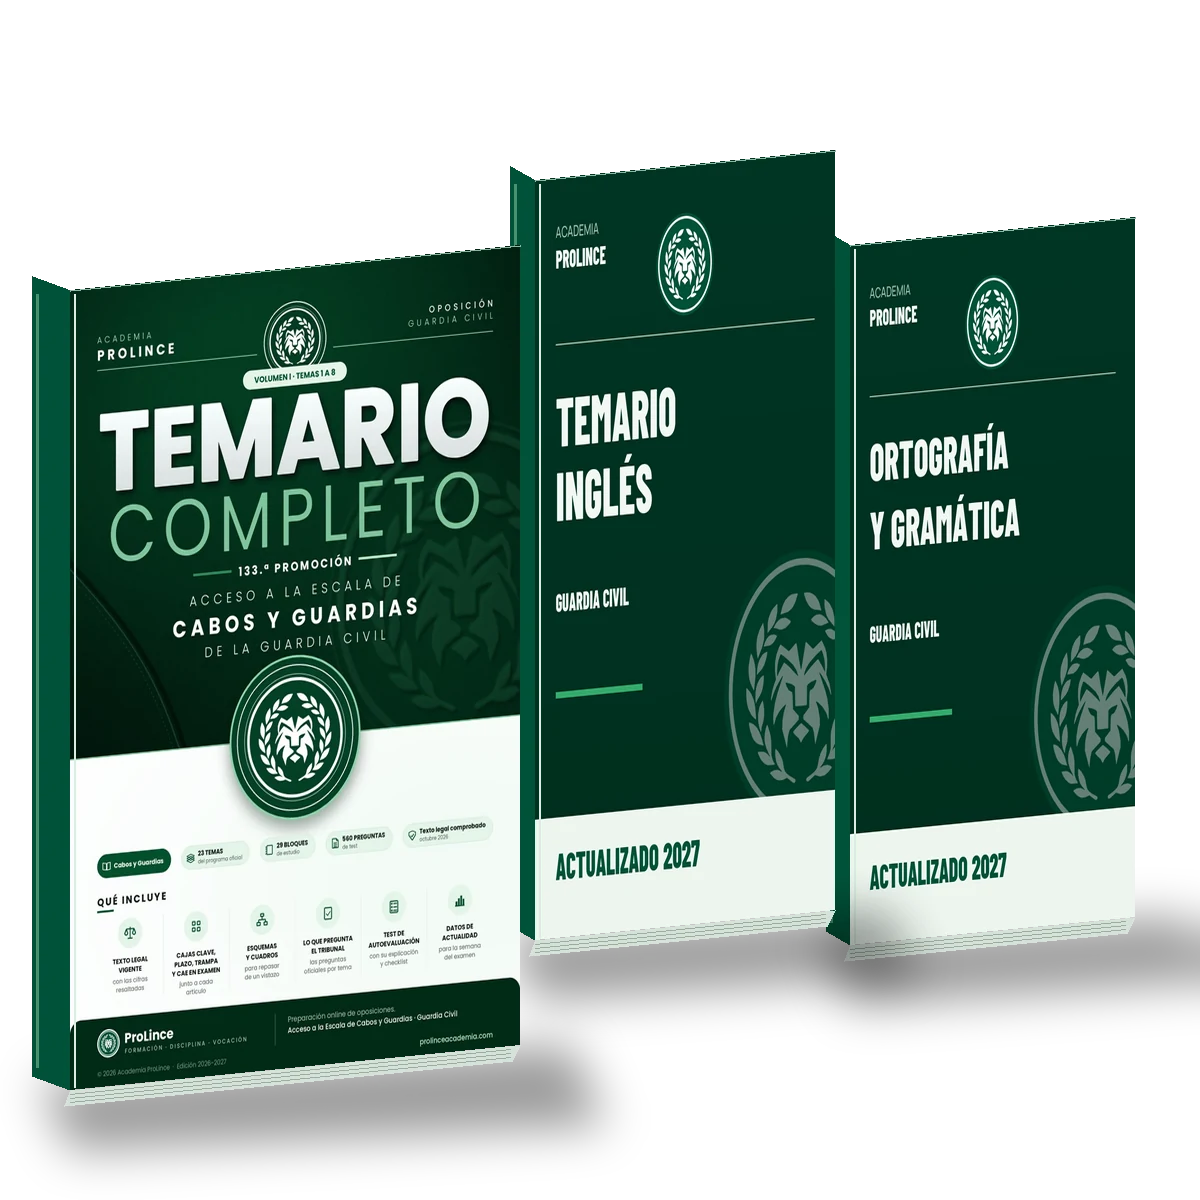
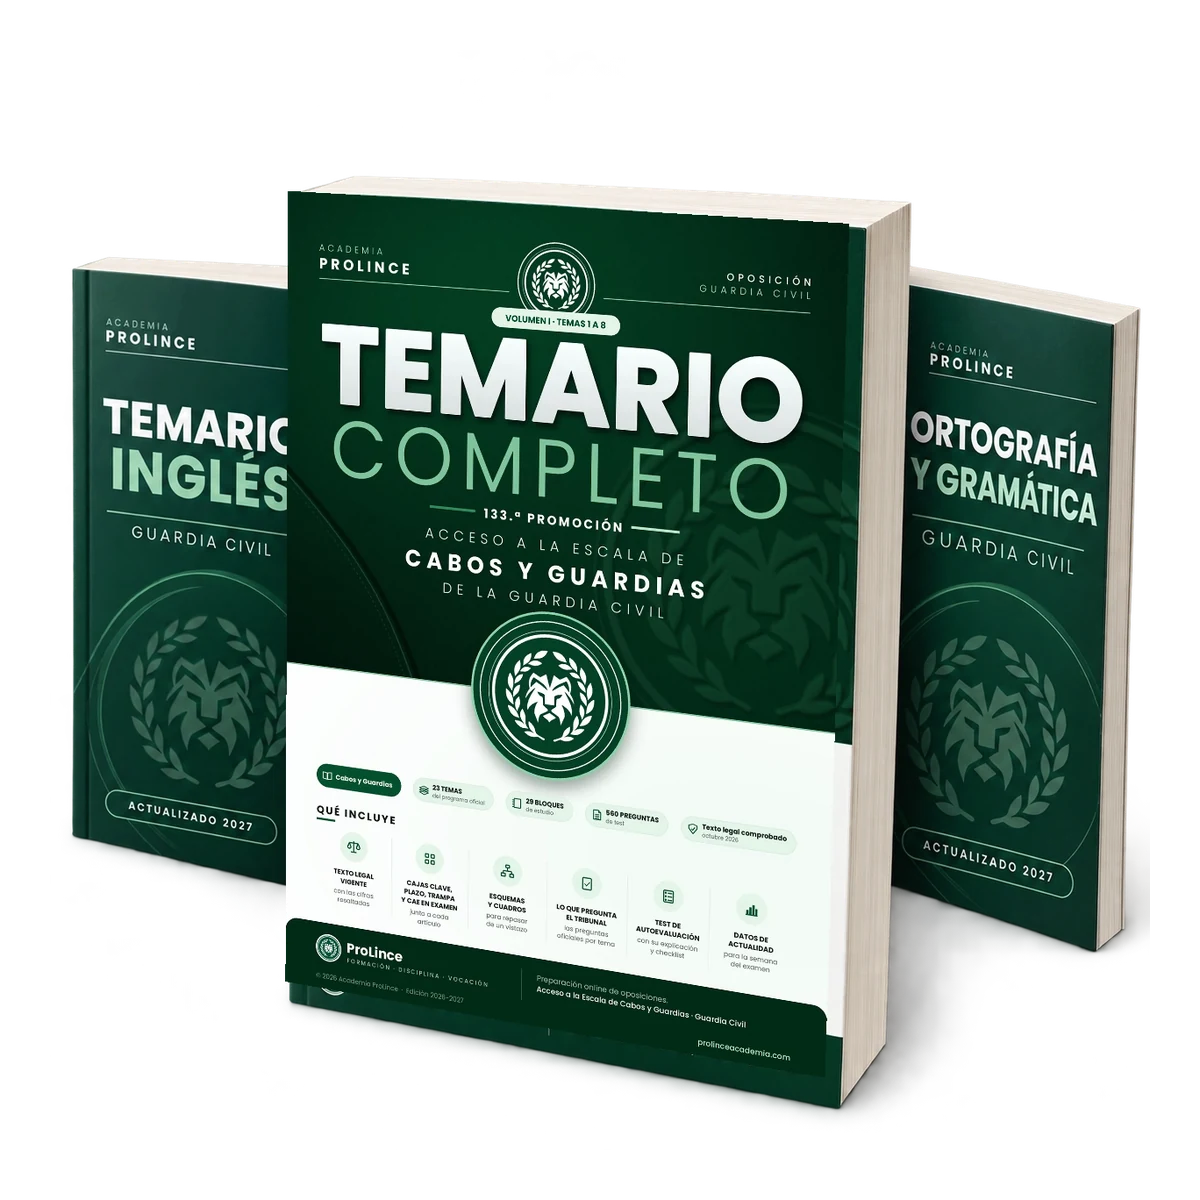
Rehace los cuatro mockups de temarios con libros realistas y sombras suaves

diff --git a/scripts/generar-miniaturas.py b/scripts/generar-miniaturas.py
@@ -1,9 +1,9 @@
-"""Genera las 10 miniaturas con Pillow y Sharp (logos SVG), sin alterar las portadas reales.
+"""Genera las miniaturas de packs y prepara los temarios desde sus fuentes fotográficas.
 
 Uso: python3 scripts/generar-miniaturas.py
 Requiere Pillow; descarga Barlow Condensed 800 y Manrope 500 de Google Fonts en la
-carpeta temporal. Las portadas de inglés, ortografía y resumen son PROVISIONALES:
-sustituirlas por las definitivas cuando estén disponibles.
+carpeta temporal. Los temarios se preparan con generar-temarios-realistas.py;
+sus fuentes de imagen se conservan en scripts/recursos/temarios.
 """
 from pathlib import Path
 from tempfile import gettempdir
@@ -42,50 +42,6 @@ def shadow(im, polygon, blur=25, opacity=100):
     layer = Image.new('RGBA', im.size)
     ImageDraw.Draw(layer).polygon(polygon, fill=(0, 0, 0, opacity))
     im.alpha_composite(layer.filter(ImageFilter.GaussianBlur(blur)))
-
-
-def cover(course, kind):
-    # PROVISIONAL: no hay portadas oficiales de inglés, ortografía ni resumen.
-    im = Image.new('RGBA', (840, 1188), '#003B29')
-    d = ImageDraw.Draw(im)
-    for y in range(1188):
-        d.line((0, y, 840, y), fill=(0, int(65 - y / 75), int(43 - y / 100)))
-    paste(im, SEAL, (530, 620), (430, 430))
-    # Velo sobre el sello de fondo para mantener los títulos legibles.
-    veil = Image.new('RGBA', im.size, (0, 45, 30, 155))
-    im.alpha_composite(veil)
-    paste(im, SEAL, (340, 75), (160, 160))
-    text(im, (58, 68), 'ACADEMIA', 24, MUTED, 'manrope')
-    text(im, (58, 102), 'PROLINCE', 40)
-    d = ImageDraw.Draw(im)
-    d.line((58, 260, 782, 260), fill=MUTED, width=2)
-    titles = {'ingles': ['TEMARIO', 'INGLÉS'], 'ortografia': ['ORTOGRAFÍA', 'Y GRAMÁTICA'], 'resumen': ['TEMARIO', 'RESUMEN']}[kind]
-    for i, title in enumerate(titles):
-        text(im, (58, 315 + i * 116), title, 106 if kind != 'ortografia' else 90)
-    text(im, (58, 640), 'GUARDIA CIVIL' if course == 'gc' else 'COLEGIO DE', 39)
-    if course != 'gc':
-        text(im, (58, 688), 'GUARDIAS JÓVENES', 48)
-    d.rectangle((58, 804, 300, 813), fill=GREEN)
-    d.rectangle((0, 1000, 840, 1188), fill='#EDF6EF')
-    text(im, (58, 1040), 'ACTUALIZADO 2027', 58, '#005238')
-    return im
-
-
-def book(im, front, x, y, w, h, spine=30):
-    rise = int(w * .10)
-    shadow(im, [(x-30, y+h-10), (x+w+50, y+h-rise), (x+w+85, y+h+35), (x, y+h+60)], 22, 100)
-    d = ImageDraw.Draw(im)
-    d.polygon([(x-spine,y-14), (x,y), (x,y+h), (x-spine,y+h-14)], fill='#005238')
-    d.line((x-spine+5,y+4,x-spine+5,y+h-23), fill='#4A8F6D',width=3)
-    d.polygon([(x,y+h), (x+w,y+h-rise), (x+w-8,y+h-rise+16), (x-6,y+h+16)], fill='#D5E2D9')
-    for offset in (4,8,12):
-        d.line((x,y+h+offset,x+w-10,y+h-rise+offset),fill='#9CAD9E',width=1)
-    scaled = front.resize((w,h), Image.Resampling.LANCZOS)
-    layer = scaled.transform(im.size, Image.Transform.AFFINE, (1,0,-x,rise/w,1,-y-rise*x/w), Image.Resampling.BICUBIC)
-    im.alpha_composite(layer)
-    d = ImageDraw.Draw(im)
-    d.line((x,y,x+w,y-rise), fill='#91B69D',width=2)
-    d.line((x+4,y+4,x+4,y+h-3), fill=(160,210,180,100),width=2)
 
 
 def phone():
@@ -178,18 +134,7 @@ for course in ('gc','cgj'):
         path=ROOT/f'public/packs/{course}-{suffix}.webp'
         path.parent.mkdir(parents=True,exist_ok=True)
         pack(course,kind).save(path,'WEBP',quality=88,method=6)
-    original=Image.open(ROOT/f"public/temarios/{'guardia-civil' if course=='gc' else 'guardias-jovenes'}/001.webp").convert('RGBA')
-    for kind in ('completo','resumen'):
-        im=Image.new('RGBA',(1200,1200))
-        if kind=='completo':
-            book(im,cover(course,'ortografia'),850,245,285,700,24)
-            book(im,cover(course,'ingles'),535,180,300,760,25)
-            book(im,original,70,290,450,800,38)
-        else:
-            book(im,cover(course,'resumen'),300,180,615,888,19)
-        path=ROOT/f'public/temarios/miniaturas/{course}-libro-{kind}.webp'
-        path.parent.mkdir(parents=True,exist_ok=True)
-        im.save(path,'WEBP',quality=88,method=6)
+subprocess.run(['python3', str(ROOT / 'scripts/generar-temarios-realistas.py')], check=True)
 for folder in ('packs','temarios/miniaturas'):
     for path in sorted((ROOT/'public'/folder).glob('*.webp')):
         print(f'{path.relative_to(ROOT)}: {path.stat().st_size / 1000:.1f} KB · {Image.open(path).size}')

diff --git a/scripts/generar-temarios-realistas.py b/scripts/generar-temarios-realistas.py
@@ -1,0 +1,59 @@
+"""Prepara las cuatro miniaturas fotográficas de temarios (Pillow, sin descargas).
+
+Las bases de imagen se conservan en recursos/temarios. Para los packs completos,
+la portada real se proyecta sobre la cara frontal del libro, sin redibujar textos
+ni logotipos. Las portadas de inglés, ortografía y resumen son PROVISIONALES.
+"""
+from pathlib import Path
+from PIL import Image
+
+ROOT = Path(__file__).resolve().parents[1]
+SOURCES = ROOT / 'scripts/recursos/temarios'
+OUTPUT = ROOT / 'public/temarios/miniaturas'
+# Vértices de la cara frontal: superior izquierdo, superior derecho,
+# inferior derecho, inferior izquierdo, en coordenadas normalizadas a 1280 × 1280.
+FRONTS = {
+    'gc': [(277, 164), (930, 202), (902, 1196), (274, 1084)],
+    'cgj': [(277, 164), (927, 207), (915, 1205), (277, 1114)],
+}
+
+
+def perspective(source_size, target):
+    """Resuelve la homografía inversa para aplicar la portada original con Pillow."""
+    width, height = source_size
+    source = [(0, 0), (width, 0), (width, height), (0, height)]
+    rows = []
+    for (x, y), (u, v) in zip(target, source):
+        rows.append([x, y, 1, 0, 0, 0, -u*x, -u*y, u])
+        rows.append([0, 0, 0, x, y, 1, -v*x, -v*y, v])
+    for column in range(8):
+        pivot = max(range(column, 8), key=lambda r: abs(rows[r][column]))
+        rows[column], rows[pivot] = rows[pivot], rows[column]
+        divisor = rows[column][column]
+        rows[column] = [value / divisor for value in rows[column]]
+        for r in range(8):
+            if r != column:
+                factor = rows[r][column]
+                rows[r] = [a-factor*b for a, b in zip(rows[r], rows[column])]
+    return tuple(row[-1] for row in rows)
+
+
+OUTPUT.mkdir(parents=True, exist_ok=True)
+for course, folder in [('gc', 'guardia-civil'), ('cgj', 'guardias-jovenes')]:
+    for kind in ('completo', 'resumen'):
+        name = f'{course}-libro-{kind}.webp'
+        image = Image.open(SOURCES / name).convert('RGBA')
+        if kind == 'completo':
+            original = Image.open(ROOT / f'public/temarios/{folder}/001.webp').convert('RGBA')
+            texture = original.transform(image.size, Image.Transform.PERSPECTIVE,
+                perspective(original.size, [(x * image.width / 1280, y * image.height / 1280)
+                    for x, y in FRONTS[course]]), Image.Resampling.BICUBIC)
+            image.alpha_composite(texture)
+        # Margen constante: ni libros ni sombras quedan pegados al borde de la tarjeta.
+        canvas = Image.new('RGBA', (1200, 1200))
+        canvas.alpha_composite(image.resize((1100, 1100), Image.Resampling.LANCZOS), (50, 50))
+        image = canvas
+        destination = OUTPUT / name
+        image.save(destination, 'WEBP', quality=88, method=6)
+        assert destination.stat().st_size < 250_000, f'Miniatura demasiado pesada: {name}'
+        print(f'{name}: {destination.stat().st_size / 1000:.1f} KB · 1200 × 1200')

diff --git a/scripts/recursos/temarios/README.md b/scripts/recursos/temarios/README.md
@@ -1,0 +1,41 @@
+# Fuentes de los mockups realistas de temarios
+
+Bases creadas con la herramienta integrada de generación de imágenes, siguiendo
+la preferencia de Marcos: «Libros realistas, con volumen y sombras suaves».
+Se conservan en WebP de calidad 95 con transparencia. Las miniaturas públicas se
+preparan con `python3 scripts/generar-temarios-realistas.py`.
+
+Las portadas de inglés, ortografía y gramática y resumen son **provisionales**.
+Las portadas principales reales se componen por perspectiva desde
+`public/temarios/guardia-civil/001.webp` y
+`public/temarios/guardias-jovenes/001.webp`, sin volver a generar sus textos.
+
+## Prompts de la serie
+
+Instrucción común: fotografía de producto fotorrealista para catálogo de Academia
+ProLince; libros de proporciones A4 naturales, cubierta laminada mate verde oscuro
+#005238, tipografía blanca y sello del león de las referencias. Luz grande de
+estudio arriba a la izquierda, cantos de papel marfil con hojas finas visibles,
+lomos creíbles y sombras de contacto suaves. Fondo realmente transparente y
+encuadre cuadrado. Libros enteros, sin recortes. Sin pedestal, decorados, personas,
+armas, marcas ajenas, precios, promesas o textos fuera de las cubiertas.
+
+- `gc-libro-completo.webp`: exactamente tres libros; principal «TEMARIO COMPLETO»
+  delante, más grande y voluminoso, tomando como referencia la portada real de
+  Guardia Civil. Dos complementarios más finos detrás, ligeramente escalonados:
+  «TEMARIO INGLÉS» y «ORTOGRAFÍA Y GRAMÁTICA», «GUARDIA CIVIL» y
+  «ACTUALIZADO 2027». Frente ancho y legible, perspectiva suave de tres cuartos.
+- `cgj-libro-completo.webp`: misma composición e iluminación del pack anterior,
+  usando la portada real del Colegio y «COLEGIO DE GUARDIAS JÓVENES» en los dos
+  complementarios. El principal toma la portada del Colegio, no la de Guardia Civil.
+- `gc-libro-resumen.webp`: un solo libro de resumen, grosor de 8–12 mm, ligeramente
+  girado en tres cuartos con frente ancho. Textos: «ACADEMIA PROLINCE»,
+  «TEMARIO RESUMEN», «GUARDIA CIVIL», «ACTUALIZADO 2027». Título grande arriba,
+  león sutil en la mitad inferior y actualización discreta abajo.
+- `cgj-libro-resumen.webp`: un solo libro con el mismo tratamiento fotográfico;
+  textos «ACADEMIA PROLINCE», «TEMARIO RESUMEN»,
+  «COLEGIO DE GUARDIAS JÓVENES», «ACTUALIZADO 2027».
+
+Las bases completas generadas son una referencia de escena: la preparación final
+sustituye siempre su cara principal por la portada original para conservar todos
+sus detalles.
